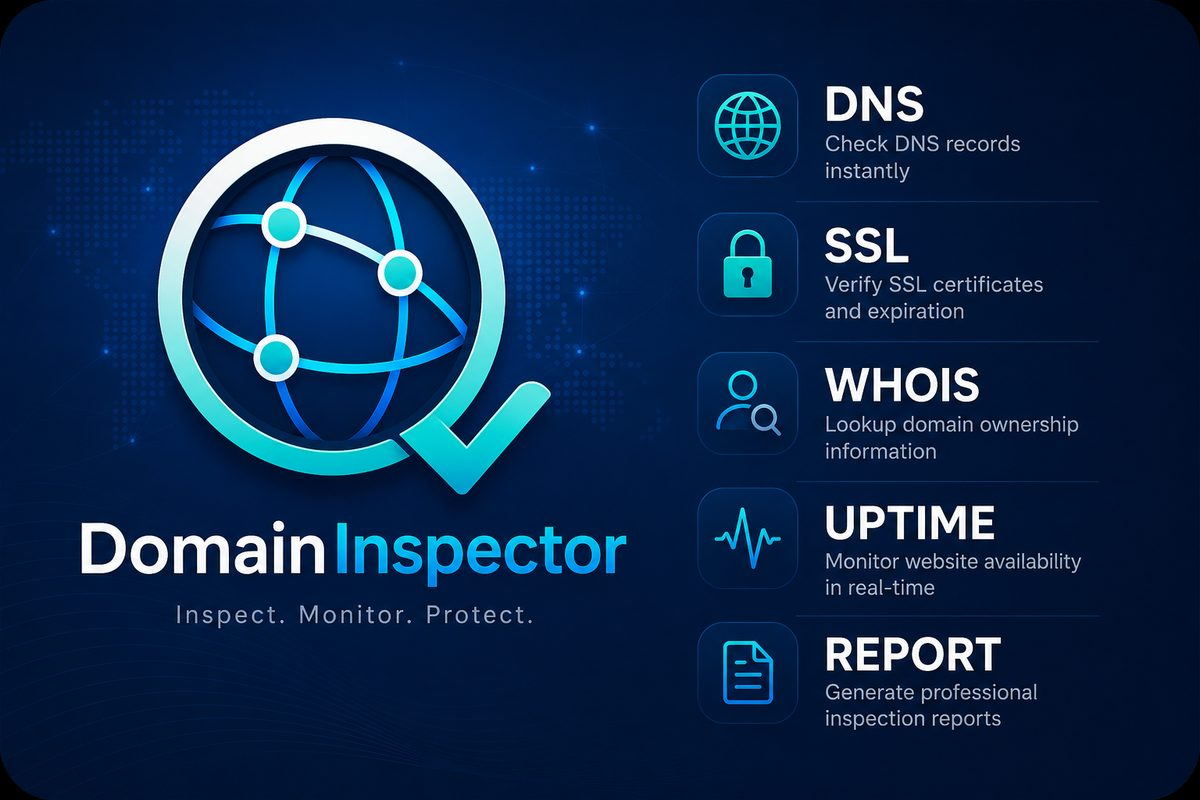
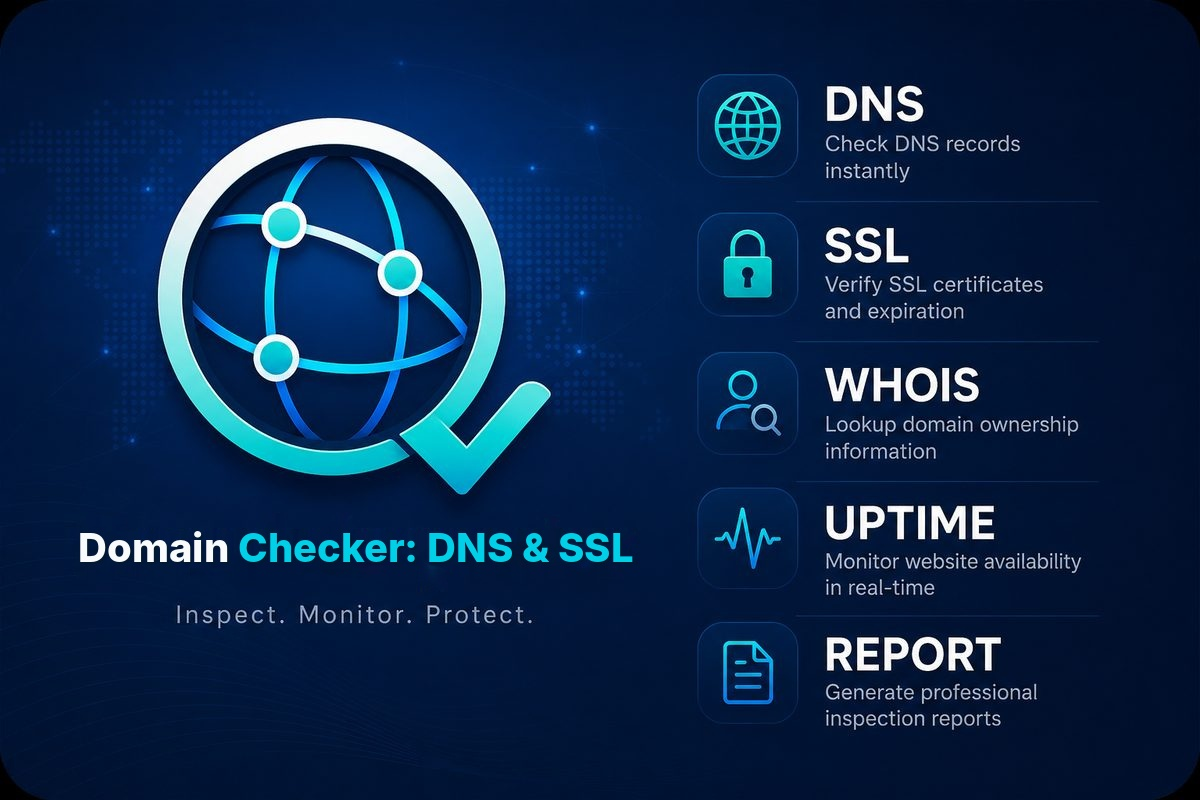
Add files via upload

Changed region(s): [[0.0617, 0.6562, 0.5242, 0.75]]

diff --git a/docs/zh-cn/index.html b/docs/zh-cn/index.html
@@ -20,7 +20,7 @@
 <link href="../assets/images/favicon-16.png" rel="icon" sizes="16x16" type="image/png"/>
 <link href="../assets/images/apple-touch-icon.png" rel="apple-touch-icon"/>
 <link href="../site.webmanifest" rel="manifest"/>
-<link as="image" fetchpriority="high" href="../assets/images/domain-checker-dns-ssl-hero.png" imagesizes="(max-width: 432px) 72vw, (max-width: 900px) 320px, 340px" imagesrcset="../assets/images/domain-home-480.webp 480w, ../assets/images/domain-checker-dns-ssl-hero.png 720w, ../assets/images/domain-home-960.webp 960w, ../assets/images/domain-home-1200.webp 1200w" rel="preload" type="image/webp"/><link href="../styles.css?v=20260824-v2-optimization-2" rel="stylesheet"/>
+<link as="image" fetchpriority="high" href="../assets/images/domain-checker-dns-ssl-hero.png" rel="preload" type="image/png"/><link href="../styles.css?v=20260824-v2-optimization-2" rel="stylesheet"/>
 <script type="application/ld+json">
   {
   "@context": "https://schema.org",
@@ -53,9 +53,9 @@
       "@id": "https://domain.opshome.run/#app",
       "name": "Domain Checker: DNS & SSL",
       "applicationCategory": "UtilitiesApplication",
-      "operatingSystem": "iOS",
+      "operatingSystem": "iOS, iPadOS",
       "url": "https://domain.opshome.run/zh-cn/",
-      "downloadUrl": "https://apps.apple.com/us/app/domain-health-inspector/id6792293532",
+      "downloadUrl": "https://apps.apple.com/us/app/domain-checker-dns-ssl/id6792293532",
       "image": "https://domain.opshome.run/og.jpg",
       "description": "Domain Checker: DNS & SSL 帮助站点所有者、开发者和小团队检查域名到期、DNS 记录、HTTPS 可用性、TLS 握手和邮件安全记录。",
       "publisher": {
@@ -99,7 +99,7 @@
 <a href="/zh-cn/privacy/">隐私</a>
 <a href="/zh-cn/support/">支持</a>
 <a href="https://app.opshome.run" rel="noopener" target="_blank">OpsHome NOC</a>
-<a class="nav-action" href="https://apps.apple.com/us/app/domain-health-inspector/id6792293532" rel="noopener" target="_blank">下载应用</a>
+<a class="nav-action" href="https://apps.apple.com/us/app/domain-checker-dns-ssl/id6792293532" rel="noopener" target="_blank">下载应用</a>
 </nav>
 <div aria-label="Language" class="language-menu">
 <a class="language-option" href="/" lang="en">EN</a>
@@ -115,12 +115,12 @@
 <h1>在一个专注工作区理解域名、DNS、TLS 和 HTTPS 健康状态。</h1>
 <p class="hero-copy">将注册信息、DNS 记录、HTTPS 可达性、TLS 证书和邮件安全检查集中到一个隐私优先的应用中，适合个人站点、API、家庭服务器和小团队资产管理。</p>
 <div class="hero-actions" id="download">
-<a class="primary-button" href="https://apps.apple.com/us/app/domain-health-inspector/id6792293532" rel="noopener" target="_blank">在 App Store 下载</a>
+<a class="primary-button" href="https://apps.apple.com/us/app/domain-checker-dns-ssl/id6792293532" rel="noopener" target="_blank">在 App Store 下载</a>
 <a class="secondary-button" href="mailto:support@opshome.run">联系支持</a>
 </div>
 </div>
 <figure aria-label="Domain Checker: DNS & SSL 应用首页" class="hero-phone">
-<img alt="Domain Checker: DNS & SSL 应用首页" decoding="async" fetchpriority="high" height="2796" loading="eager" sizes="(max-width: 432px) 72vw, (max-width: 900px) 320px, 340px" src="../assets/images/domain-checker-dns-ssl-hero.png" srcset="../assets/images/domain-home-480.webp 480w, ../assets/images/domain-checker-dns-ssl-hero.png 720w, ../assets/images/domain-home-960.webp 960w, ../assets/images/domain-home-1200.webp 1200w" width="1419"/>
+<img alt="Domain Checker: DNS & SSL 应用首页" decoding="async" fetchpriority="high" height="2048" loading="eager" src="../assets/images/domain-checker-dns-ssl-hero.png" width="1039"/>
 <figcaption class="hero-capabilities" aria-label="检查能力">
 <span>DNS</span>
 <span>TLS</span>
@@ -218,9 +218,9 @@
 <a href="/zh-cn/privacy/">隐私条款</a>
 <a href="/zh-cn/support/">支持</a>
 <a href="https://app.opshome.run" rel="noopener" target="_blank">OpsHome NOC</a>
-<a href="https://ssl.opshome.run/" rel="noopener" target="_blank">SSL Reminder</a>
+<a href="https://ssl.opshome.run/" rel="noopener" target="_blank">SSL Certificate Monitor</a>
 <a href="https://wifi.opshome.run/" rel="noopener" target="_blank">WiFi Health Check</a>
-<a href="https://fgt.opshome.run/" rel="noopener" target="_blank">NOC for FGT</a>
+<a href="https://fgt.opshome.run/" rel="noopener" target="_blank">FortiGate NOC Monitor</a>
 <a href="mailto:support@opshome.run">support@opshome.run</a>
 </nav>
 <div class="copyright">© 2026 OpsHome</div>

diff --git a/docs/index.html b/docs/index.html
@@ -20,7 +20,7 @@
 <link href="./assets/images/favicon-16.png" rel="icon" sizes="16x16" type="image/png"/>
 <link href="./assets/images/apple-touch-icon.png" rel="apple-touch-icon"/>
 <link href="./site.webmanifest" rel="manifest"/>
-<link as="image" fetchpriority="high" href="assets/images/domain-checker-dns-ssl-hero.png" imagesizes="(max-width: 432px) 72vw, (max-width: 900px) 320px, 340px" imagesrcset="assets/images/domain-checker-dns-ssl-hero.png 720w" rel="preload" type="image/webp"/><link href="styles.css?v=20260824-v2-optimization-2" rel="stylesheet"/>
+<link as="image" fetchpriority="high" href="assets/images/domain-checker-dns-ssl-hero.png" rel="preload" type="image/png"/><link href="styles.css?v=20260824-v2-optimization-2" rel="stylesheet"/>
 <script type="application/ld+json">
   {
   "@context": "https://schema.org",
@@ -53,9 +53,9 @@
       "@id": "https://domain.opshome.run/#app",
       "name": "Domain Checker: DNS & SSL",
       "applicationCategory": "UtilitiesApplication",
-      "operatingSystem": "iOS",
+      "operatingSystem": "iOS, iPadOS",
       "url": "https://domain.opshome.run/",
-      "downloadUrl": "https://apps.apple.com/us/app/domain-health-inspector/id6792293532",
+      "downloadUrl": "https://apps.apple.com/us/app/domain-checker-dns-ssl/id6792293532",
       "image": "https://domain.opshome.run/og.jpg",
       "description": "Domain Checker: DNS & SSL helps site owners, developers, and small teams monitor domain expiry, DNS records, HTTPS availability, TLS handshakes, and mail security records.",
       "publisher": {
@@ -99,7 +99,7 @@
 <a href="/privacy/">Privacy</a>
 <a href="/support/">Support</a>
 <a href="https://app.opshome.run" rel="noopener" target="_blank">OpsHome NOC</a>
-<a class="nav-action" href="https://apps.apple.com/us/app/domain-health-inspector/id6792293532" rel="noopener" target="_blank">Download App</a>
+<a class="nav-action" href="https://apps.apple.com/us/app/domain-checker-dns-ssl/id6792293532" rel="noopener" target="_blank">Download App</a>
 </nav>
 <div aria-label="Language" class="language-menu">
 <a aria-current="page" class="language-option is-active" href="/">EN</a>
@@ -115,12 +115,12 @@
 <h1>Understand your domain health from DNS, SSL, HTTPS and domain registration insights in one focused workspace.</h1>
 <p class="hero-copy">Registration, DNS records, HTTPS reachability, TLS certificates and mail security checks in one privacy-first application for personal sites, APIs, home servers, and small team assets.</p>
 <div class="hero-actions" id="download">
-<a class="primary-button" href="https://apps.apple.com/us/app/domain-health-inspector/id6792293532" rel="noopener" target="_blank">Download on the App Store</a>
+<a class="primary-button" href="https://apps.apple.com/us/app/domain-checker-dns-ssl/id6792293532" rel="noopener" target="_blank">Download on the App Store</a>
 <a class="secondary-button" href="mailto:support@opshome.run">Contact support</a>
 </div>
 </div>
 <figure aria-label="Domain Checker: DNS & SSL app home screen" class="hero-phone">
-<img alt="Domain Checker: DNS & SSL app home screen" decoding="async" fetchpriority="high" height="2796" loading="eager" sizes="(max-width: 432px) 72vw, (max-width: 900px) 320px, 340px" src="assets/images/domain-checker-dns-ssl-hero.png" srcset="assets/images/domain-checker-dns-ssl-hero.png 720w" width="1419"/>
+<img alt="Domain Checker: DNS & SSL app home screen" decoding="async" fetchpriority="high" height="2048" loading="eager" src="assets/images/domain-checker-dns-ssl-hero.png" width="1039"/>
 <figcaption class="hero-capabilities" aria-label="Inspection capabilities">
 <span>DNS</span>
 <span>TLS</span>
@@ -235,9 +235,9 @@
 <a href="/privacy/">Privacy</a>
 <a href="/support/">Support</a>
 <a href="https://app.opshome.run" rel="noopener" target="_blank">OpsHome NOC</a>
-<a href="https://ssl.opshome.run/" rel="noopener" target="_blank">SSL Reminder</a>
+<a href="https://ssl.opshome.run/" rel="noopener" target="_blank">SSL Certificate Monitor</a>
 <a href="https://wifi.opshome.run/" rel="noopener" target="_blank">WiFi Health Check</a>
-<a href="https://fgt.opshome.run/" rel="noopener" target="_blank">NOC for FGT</a>
+<a href="https://fgt.opshome.run/" rel="noopener" target="_blank">FortiGate NOC Monitor</a>
 <a href="mailto:support@opshome.run">support@opshome.run</a>
 </nav>
 <div class="copyright">© 2026 OpsHome</div>

diff --git a/docs/zh-cn/privacy/index.html b/docs/zh-cn/privacy/index.html
@@ -55,7 +55,9 @@
 <p>JSON 备份和 PDF 报告只会在你选择导出时创建。导出文件由 iOS 文档分享处理，导出后的文件由你自行负责。</p>
 <h2>5. 我们不收集的数据</h2>
 <ul><li>本地使用不需要注册账号。</li><li>不会把你的域名资产清单上传到 Domain Checker: DNS & SSL 云端账号。</li><li>不会要求提供密码、DNS 服务商凭据、注册商凭据或私钥。</li><li>不会收集抓包数据或浏览历史。</li></ul>
-<h2>6. 支持</h2>
+<h2>6. 网站访问统计</h2>
+<p>本网站使用 Yandex Metrica 进行基础网站访问统计，例如页面访问量、流量来源和交互统计。这些统计仅用于改进网站，与 Domain Checker: DNS &amp; SSL App 在设备本地保存的数据相互独立。</p>
+<h2>7. 支持</h2>
 <p>联系支持时，请只提供排查问题所需的信息。不要发送注册商密码、DNS 服务商凭据、私钥或其他敏感信息。</p>
 <div class="cta-row"><a class="primary-button" href="/zh-cn/support/">联系支持</a><a class="secondary-button" href="/zh-cn/">返回首页</a></div>
 </section>
@@ -68,9 +70,9 @@
 <a href="/zh-cn/support/">支持</a>
 <a href="https://opshome.run/" rel="noopener" target="_blank">OpsHome</a>
 <a href="https://app.opshome.run" rel="noopener" target="_blank">OpsHome NOC</a>
-<a href="https://ssl.opshome.run/" rel="noopener" target="_blank">SSL Reminder</a>
+<a href="https://ssl.opshome.run/" rel="noopener" target="_blank">SSL Certificate Monitor</a>
 <a href="https://wifi.opshome.run/" rel="noopener" target="_blank">WiFi Health Check</a>
-<a href="https://fgt.opshome.run/" rel="noopener" target="_blank">NOC for FGT</a>
+<a href="https://fgt.opshome.run/" rel="noopener" target="_blank">FortiGate NOC Monitor</a>
 </nav>
 <div class="copyright">© 2026 OpsHome</div>
 </footer>

diff --git a/docs/privacy/index.html b/docs/privacy/index.html
@@ -80,7 +80,9 @@
 <li>No passwords, DNS provider credentials, registrar credentials, or private keys are requested.</li>
 <li>No packet capture or browsing history is collected.</li>
 </ul>
-<h2>6. Support</h2>
+<h2>6. Website Analytics</h2>
+<p>This website uses Yandex Metrica for basic website analytics, such as page visits, traffic sources, and interaction statistics. Website analytics is used to improve the website and is separate from data stored locally by the Domain Checker: DNS &amp; SSL app.</p>
+<h2>7. Support</h2>
 <p>If you contact support, include only the information needed to troubleshoot the issue. Do not send registrar passwords, DNS provider credentials, private keys, or other secrets.</p>
 <div class="cta-row">
 <a class="primary-button" href="/support/">Contact Support</a>
@@ -96,9 +98,9 @@
 <a href="/support/">Support</a>
 <a href="https://opshome.run/" rel="noopener" target="_blank">OpsHome</a>
 <a href="https://app.opshome.run" rel="noopener" target="_blank">OpsHome NOC</a>
-<a href="https://ssl.opshome.run/" rel="noopener" target="_blank">SSL Reminder</a>
+<a href="https://ssl.opshome.run/" rel="noopener" target="_blank">SSL Certificate Monitor</a>
 <a href="https://wifi.opshome.run/" rel="noopener" target="_blank">WiFi Health Check</a>
-<a href="https://fgt.opshome.run/" rel="noopener" target="_blank">NOC for FGT</a>
+<a href="https://fgt.opshome.run/" rel="noopener" target="_blank">FortiGate NOC Monitor</a>
 </nav>
 <div class="copyright">© 2026 OpsHome</div>
 </footer>

diff --git a/docs/zh-cn/support/index.html b/docs/zh-cn/support/index.html
@@ -62,9 +62,9 @@
 <a href="/zh-cn/support/">支持</a>
 <a href="https://opshome.run/" rel="noopener" target="_blank">OpsHome</a>
 <a href="https://app.opshome.run" rel="noopener" target="_blank">OpsHome NOC</a>
-<a href="https://ssl.opshome.run/" rel="noopener" target="_blank">SSL Reminder</a>
+<a href="https://ssl.opshome.run/" rel="noopener" target="_blank">SSL Certificate Monitor</a>
 <a href="https://wifi.opshome.run/" rel="noopener" target="_blank">WiFi Health Check</a>
-<a href="https://fgt.opshome.run/" rel="noopener" target="_blank">NOC for FGT</a>
+<a href="https://fgt.opshome.run/" rel="noopener" target="_blank">FortiGate NOC Monitor</a>
 </nav>
 <div class="copyright">© 2026 OpsHome</div>
 </footer>

diff --git a/docs/zh-cn/terms/index.html b/docs/zh-cn/terms/index.html
@@ -68,9 +68,9 @@
 <a href="/zh-cn/support/">支持</a>
 <a href="https://opshome.run/" rel="noopener" target="_blank">OpsHome</a>
 <a href="https://app.opshome.run" rel="noopener" target="_blank">OpsHome NOC</a>
-<a href="https://ssl.opshome.run/" rel="noopener" target="_blank">SSL Reminder</a>
+<a href="https://ssl.opshome.run/" rel="noopener" target="_blank">SSL Certificate Monitor</a>
 <a href="https://wifi.opshome.run/" rel="noopener" target="_blank">WiFi Health Check</a>
-<a href="https://fgt.opshome.run/" rel="noopener" target="_blank">NOC for FGT</a>
+<a href="https://fgt.opshome.run/" rel="noopener" target="_blank">FortiGate NOC Monitor</a>
 </nav>
 <div class="copyright">© 2026 OpsHome</div>
 </footer>

diff --git a/docs/support/index.html b/docs/support/index.html
@@ -92,9 +92,9 @@
 <a href="/support/">Support</a>
 <a href="https://opshome.run/" rel="noopener" target="_blank">OpsHome</a>
 <a href="https://app.opshome.run" rel="noopener" target="_blank">OpsHome NOC</a>
-<a href="https://ssl.opshome.run/" rel="noopener" target="_blank">SSL Reminder</a>
+<a href="https://ssl.opshome.run/" rel="noopener" target="_blank">SSL Certificate Monitor</a>
 <a href="https://wifi.opshome.run/" rel="noopener" target="_blank">WiFi Health Check</a>
-<a href="https://fgt.opshome.run/" rel="noopener" target="_blank">NOC for FGT</a>
+<a href="https://fgt.opshome.run/" rel="noopener" target="_blank">FortiGate NOC Monitor</a>
 </nav>
 <div class="copyright">© 2026 OpsHome</div>
 </footer>

diff --git a/docs/terms/index.html b/docs/terms/index.html
@@ -95,9 +95,9 @@
 <a href="/support/">Support</a>
 <a href="https://opshome.run/" rel="noopener" target="_blank">OpsHome</a>
 <a href="https://app.opshome.run" rel="noopener" target="_blank">OpsHome NOC</a>
-<a href="https://ssl.opshome.run/" rel="noopener" target="_blank">SSL Reminder</a>
+<a href="https://ssl.opshome.run/" rel="noopener" target="_blank">SSL Certificate Monitor</a>
 <a href="https://wifi.opshome.run/" rel="noopener" target="_blank">WiFi Health Check</a>
-<a href="https://fgt.opshome.run/" rel="noopener" target="_blank">NOC for FGT</a>
+<a href="https://fgt.opshome.run/" rel="noopener" target="_blank">FortiGate NOC Monitor</a>
 </nav>
 <div class="copyright">© 2026 OpsHome</div>
 </footer>
